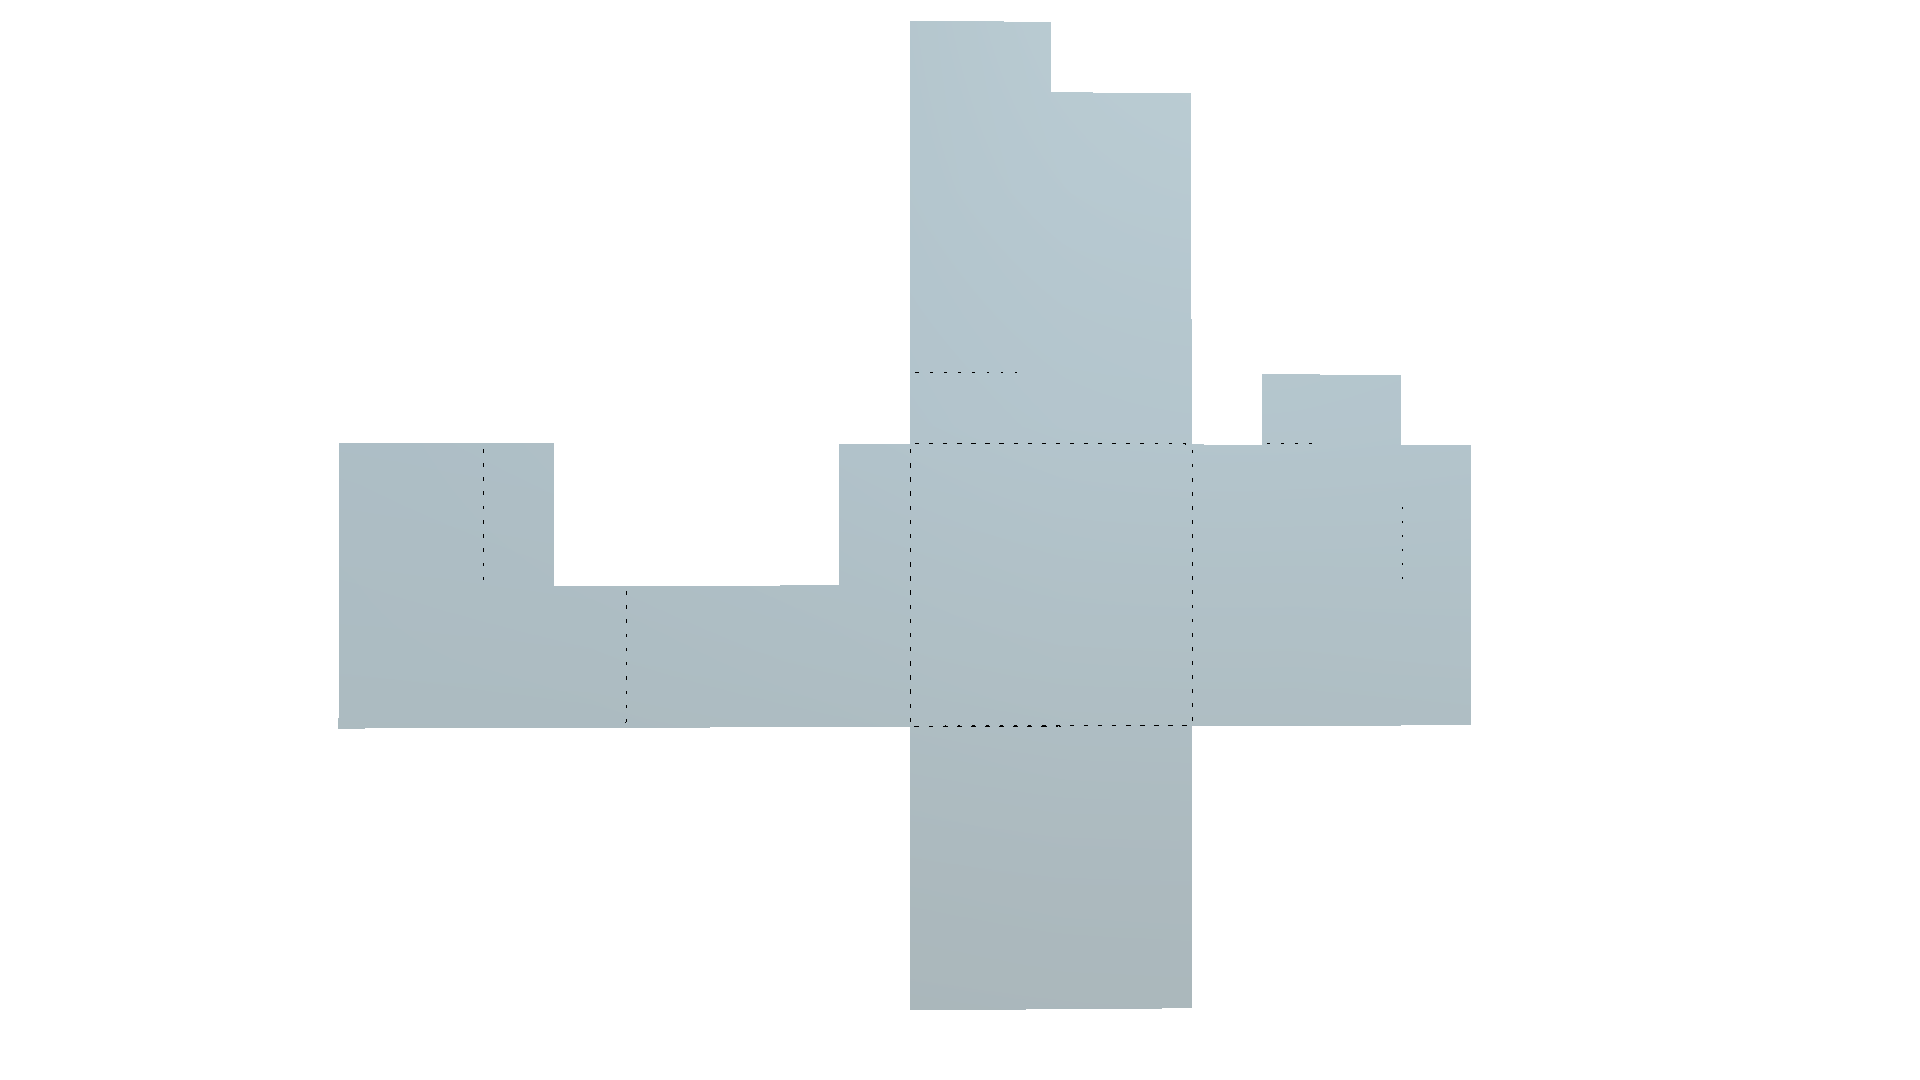
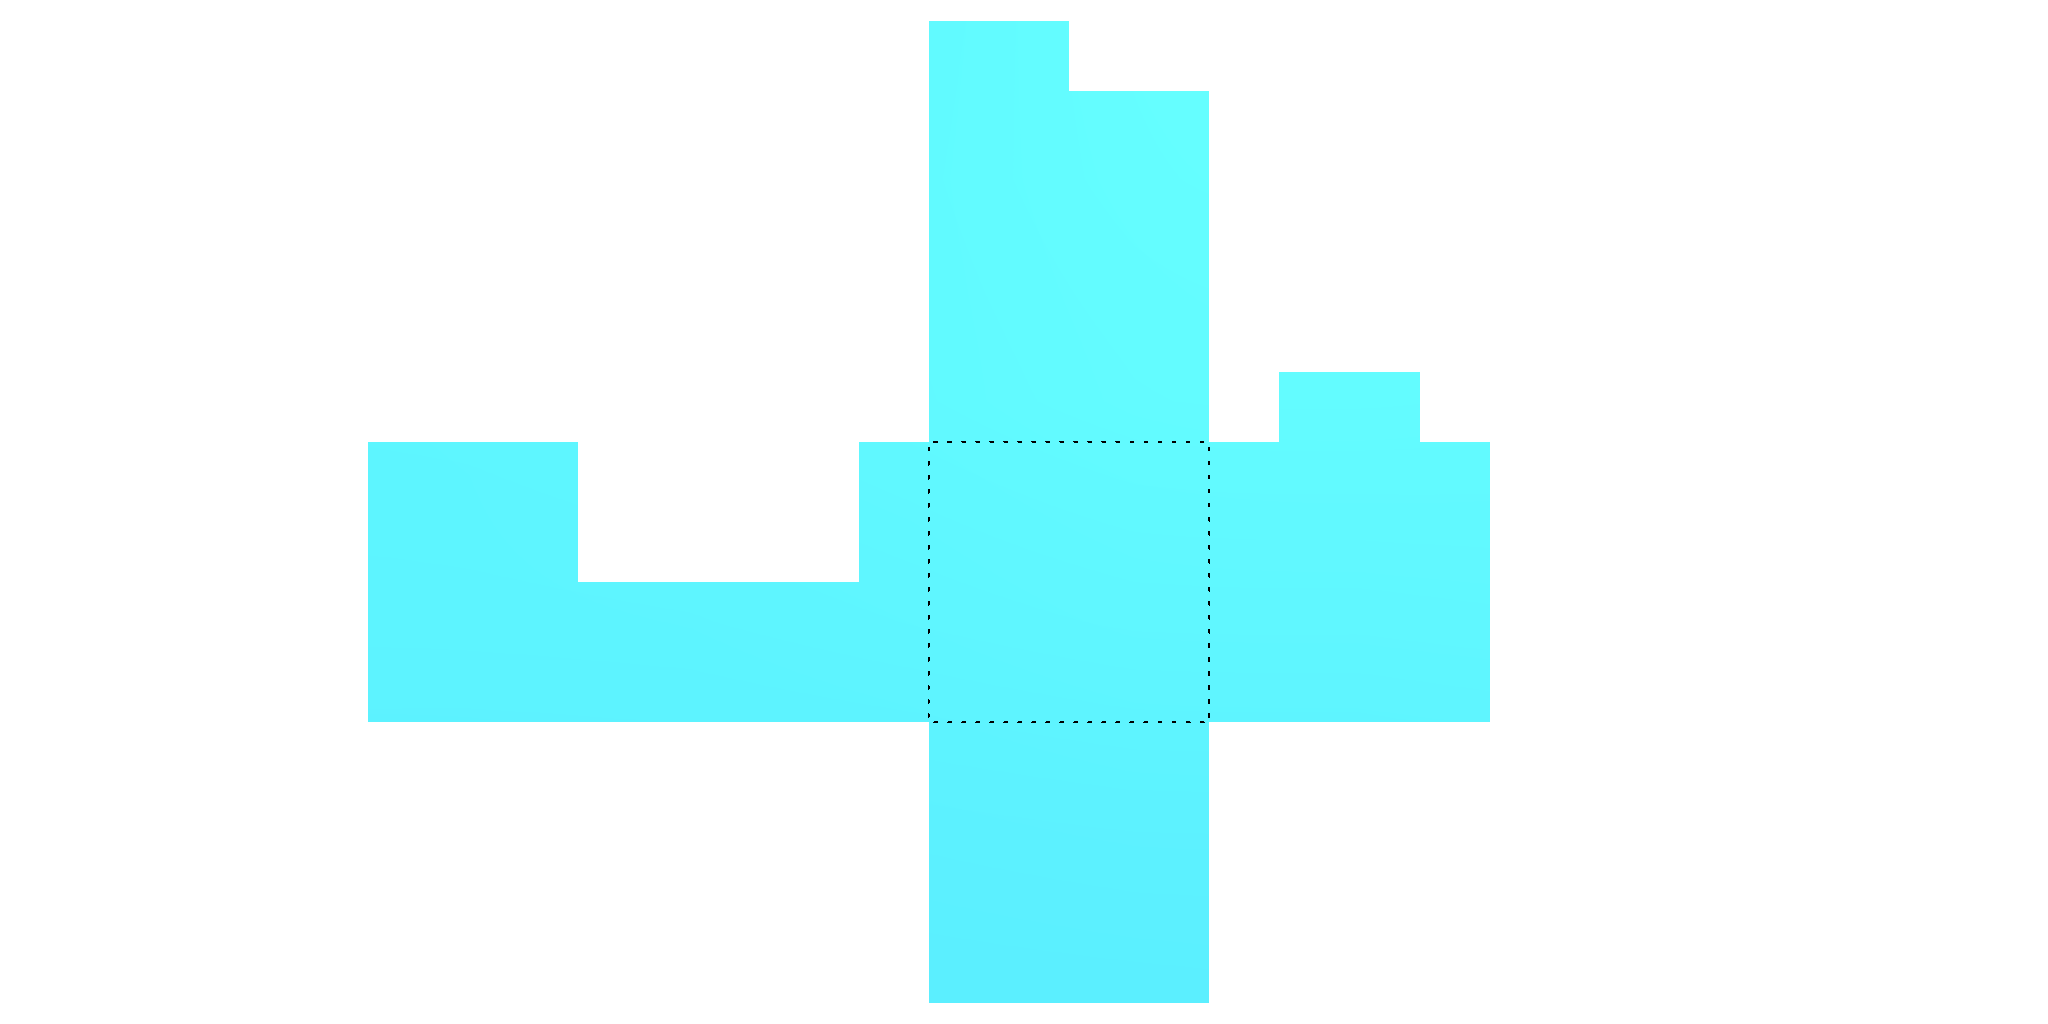
Add level6.

Changed region(s): [[0.1562, 0.0, 0.7812, 1.0]]

diff --git a/Assets/Scripts/Unfolding/MeshGenerator.cs b/Assets/Scripts/Unfolding/MeshGenerator.cs
@@ -93,7 +93,7 @@ public class MeshGenerator : MonoBehaviour {
 
         InitArrays();
 
-        CurrentLevel = 0;
+        CurrentLevel = 6;
         InitConstants(CurrentLevel);
 
         CreateModel();
